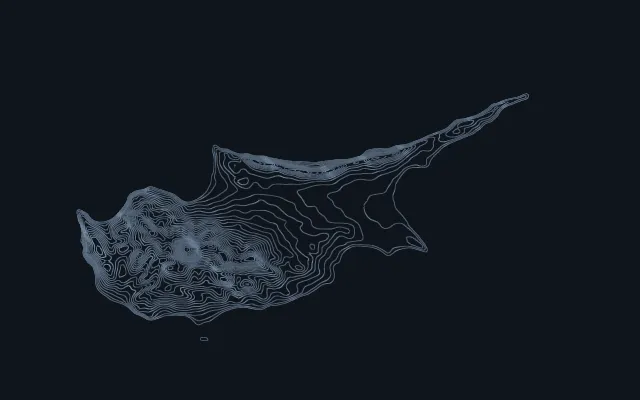
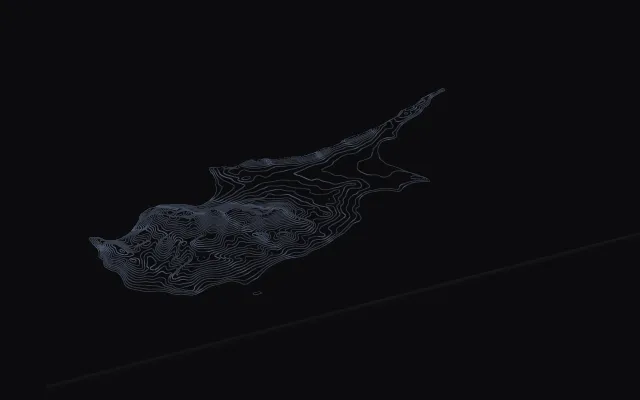
use the shared place camera for cyprus
- give cyprus landscape(341.8, 35, 0.1) like the other places and delete CYPRUS_DEFAULTS, so it keeps the viewer's style, colours and lines
- drop the theme clearing in beforePlace that only cyprus needed
- point the readme cyprus link at the shared place query and render place-cyprus.webp again
- update the unit tests, the playground check and the docs to match

Changed region(s): [[0.0938, 0.24, 0.8438, 0.81], [0.6562, 0.21, 0.6875, 0.27], [0.625, 0.27, 0.6562, 0.3]]

diff --git a/apps/playground/src/region/places.test.ts b/apps/playground/src/region/places.test.ts
@@ -1,10 +1,10 @@
 import { describe, expect, it } from 'vitest';
 import { limitProblem, spanOf } from './pipeline';
-import { mergeSettings, resolveSettings } from 'topographic';
-import { readSettings } from '../share-url';
-import { CYPRUS_DEFAULTS, MAP_TERRAIN_DEFAULTS, PLACE_GROUPS, PLACES, beforePlace, restoredKeys, sameBox, terrainDefaults } from './places';
+import { MAP_TERRAIN_DEFAULTS, PLACE_GROUPS, PLACES, restoredKeys, sameBox, terrainDefaults } from './places';
 
 const LANDSCAPES = PLACES.filter((place) => place.id !== 'istanbul' && place.id !== 'cyprus');
+/** Every place but Istanbul brings its own camera angle and elevation on the shared map terrain view. */
+const OWN_VIEW = PLACES.filter((place) => place.id !== 'istanbul');
 
 describe('example places', () => {
   it('offers Istanbul, Cyprus and eight landscapes, grouped by region in menu order', () => {
@@ -65,27 +65,20 @@ describe('example places', () => {
     });
   });
 
-  it('gives Cyprus the settings of its reference query, Istanbul the map terrain view and each landscape its own camera and elevation', () => {
-    const link = readSettings('?look=stone-grain&lc=37&lw=0&lo=0.92&ix=6&sd=1.3&sk=0.35&an=0.43&fd=0.22&m=dark&ink=a9c7e4&paper=10151c&mode=3d&ex=block&ev=0.06&az=3&ce=80&rd=1.18');
-    const { detail: _detail, quality: _quality, view2d: _view2d, ...rest } = link;
-    expect(CYPRUS_DEFAULTS).toEqual({ ...rest, camera: { azimuth: 3, elevation: 80, radius: 1.18 } });
-    expect(terrainDefaults('cyprus')).toBe(CYPRUS_DEFAULTS);
+  it('gives Istanbul the map terrain view, and Cyprus and each landscape the same view with their own camera angle and elevation', () => {
     expect(terrainDefaults('istanbul')).toBe(MAP_TERRAIN_DEFAULTS);
     expect(terrainDefaults(null)).toBe(MAP_TERRAIN_DEFAULTS);
-    for (const place of LANDSCAPES) {
+    for (const place of OWN_VIEW) {
       const d = terrainDefaults(place.id);
       expect({ ...d, camera: undefined, elevation: undefined }).toEqual({ ...MAP_TERRAIN_DEFAULTS, camera: undefined, elevation: undefined });
       expect(d.camera?.radius).toBe(MAP_TERRAIN_DEFAULTS.camera.radius);
       expect(Object.keys(d).sort()).toEqual(Object.keys(MAP_TERRAIN_DEFAULTS).sort());
     }
+    expect(terrainDefaults('cyprus')).toEqual({ ...MAP_TERRAIN_DEFAULTS, elevation: 0.1, camera: { azimuth: 341.8, elevation: 35, radius: 1.32 } });
   });
 
-  it('lets Clear restore the colours after Cyprus, and only the map view after Istanbul or a landscape', () => {
+  it('lets Clear restore only the map view after any place', () => {
     expect(restoredKeys('istanbul').sort()).toEqual(['camera', 'elevation', 'extent', 'lines']);
-    for (const place of LANDSCAPES) expect(restoredKeys(place.id).sort()).toEqual(['camera', 'elevation', 'extent', 'lines', 'mode']);
-    expect(restoredKeys('cyprus')).toEqual(expect.arrayContaining(['theme', 'style', 'motion', 'layout', 'lines', 'camera']));
-    const start = resolveSettings({ theme: { mode: 'light', ink: '#222222' } });
-    const applied = mergeSettings(start, CYPRUS_DEFAULTS);
-    expect(mergeSettings(applied, beforePlace(start, restoredKeys('cyprus')))).toEqual(start);
+    for (const place of OWN_VIEW) expect(restoredKeys(place.id).sort()).toEqual(['camera', 'elevation', 'extent', 'lines', 'mode']);
   });
 });

diff --git a/apps/playground/src/region/places.ts b/apps/playground/src/region/places.ts
@@ -13,25 +13,6 @@ export interface Place {
 }
 
 /**
- * Cyprus's own look, decoded with readSettings from the query
- * `?look=stone-grain&lc=37&lw=0&lo=0.92&ix=6&sd=1.3&sk=0.35&an=0.43&fd=0.22&m=dark&ink=a9c7e4&paper=10151c&mode=3d&ex=block&ev=0.06&az=3&ce=80&rd=1.18`.
- * The camera motion and the detail are left out: they belong to the viewer, not the place.
- */
-export const CYPRUS_DEFAULTS = {
-  style: 'granite',
-  seed: 127,
-  lines: { count: 37, width: 0, opacity: 0.92, indexEvery: 6 },
-  terrain: { peaks: 1, spread: 0.5, roughness: 0.5, sharpness: 0.5, terracing: 0, variant: 0.5 },
-  motion: { speed: 1.3, warp: 0.47, sparkle: 0.35 },
-  layout: { anchor: 0.43, fade: 0.22 },
-  theme: { mode: 'dark', paper: '#10151c', ink: '#a9c7e4' },
-  mode: '3d',
-  elevation: 0.06,
-  extent: 'block',
-  camera: { azimuth: 3, elevation: 80, radius: 1.18 },
-} as const satisfies SettingsInput;
-
-/**
  * What Apply sets on top of the current settings when it makes a terrain from the map. Colours,
  * theme, motion and the rest stay. Clear puts back the lines, camera, extent and elevation from
  * before the first place. Camera motion is left alone.
@@ -61,14 +42,15 @@ const landscape = (azimuth: number, cameraElevation: number, elevation: number):
 /**
  * Places offered as one-tap examples, grouped by region. Istanbul's box holds the whole metro area,
  * about 101 × 64 km. Cyprus is the whole island with some sea around it, about 261 × 166 km. Each
- * landscape box is about 1.5:1 around its main feature, with its own camera and elevation.
+ * landscape box is about 1.5:1 around its main feature. Cyprus and each landscape bring their own
+ * camera angle and elevation.
  */
 export const PLACES: readonly Place[] = [
   { id: 'istanbul', name: 'Istanbul', group: 'Europe & Middle East', note: 'The Bosphorus and the Princes\' Islands', bbox: { west: 28.45, south: 40.78, east: 29.65, north: 41.36 } },
   {
     id: 'cyprus', name: 'Cyprus', group: 'Europe & Middle East', note: 'The whole island, Troodos to the Karpas',
     bbox: { west: 32.07126, south: 34.41845, east: 34.93823, north: 35.92088 },
-    defaults: CYPRUS_DEFAULTS,
+    defaults: landscape(341.8, 35, 0.1),
   },
   {
     id: 'matterhorn', name: 'Matterhorn & Zermatt', group: 'Europe & Middle East', note: 'The pyramid above Zermatt and its glaciers',
@@ -136,7 +118,5 @@ export function restoredKeys(placeId: string | null): (keyof Settings)[] {
 export function beforePlace(s: Settings, keys: (keyof Settings)[] = restoredKeys(null)): BeforePlace {
   const out: Record<string, unknown> = {};
   for (const key of keys) out[key] = structuredClone(s[key]);
-  // A theme without its own ink or paper must clear the place's colours, so name them as undefined.
-  if (out.theme) out.theme = { ink: undefined, paper: undefined, ...(out.theme as object) };
   return out as BeforePlace;
 }

diff --git a/apps/playground/docs.ts b/apps/playground/docs.ts
@@ -28,7 +28,7 @@ ${TOOL_DEFS.map((t) => `### ${t.name}\n\n\`\`\`json\n${JSON.stringify(t.inputSch
 
 ## Place tools
 
-A region is \`?region=west,south,east,north\` in degrees, or JSON such as \`{"bbox":[28.45,40.78,29.65,41.36]}\`. Named examples: ${PLACES.map((p) => `\`place=${p.id}\` (${p.name})`).join(', ')}. Istanbul is the whole metro area, about 101 × 64 km, Cyprus the whole island, about 261 × 166 km, and each landscape a box of 30 to 80 km around its main feature. A region draws its real heights; the seed, the terrain params and \`motion.warp\` have no effect on it. In the page, the **Map** button picks a region, and its Apply also switches to 3D with \`lc=36&lw=0&lo=0.9&ix=4&ex=block&ev=0.12&az=341.8&ce=39.3&rd=1.32\`; each landscape sets its own \`ev\`, \`az\` and \`ce\`, and Cyprus its own look. \`set_region\` sets the same view. A minimap above the dock shows the applied area; in 3D it turns with the camera, and its compass turns the camera back to north up, which is azimuth 0.
+A region is \`?region=west,south,east,north\` in degrees, or JSON such as \`{"bbox":[28.45,40.78,29.65,41.36]}\`. Named examples: ${PLACES.map((p) => `\`place=${p.id}\` (${p.name})`).join(', ')}. Istanbul is the whole metro area, about 101 × 64 km, Cyprus the whole island, about 261 × 166 km, and each landscape a box of 30 to 80 km around its main feature. A region draws its real heights; the seed, the terrain params and \`motion.warp\` have no effect on it. In the page, the **Map** button picks a region, and its Apply also switches to 3D with \`lc=36&lw=0&lo=0.9&ix=4&ex=block&ev=0.12&az=341.8&ce=39.3&rd=1.32\`; Cyprus and each landscape set their own \`ev\`, \`az\` and \`ce\`. \`set_region\` sets the same view. A minimap above the dock shows the applied area; in 3D it turns with the camera, and its compass turns the camera back to north up, which is azimuth 0.
 
 ${REGION_TOOL_DEFS.map((t) => `- \`${t.name}\`${t.readOnly ? ' (read-only)' : ''}: ${t.description}`).join('\n')}
 

diff --git a/apps/playground/src/region/tools.ts b/apps/playground/src/region/tools.ts
@@ -85,7 +85,7 @@ export const REGION_TOOL_DEFS: ToolDef[] = [
     name: 'set_region',
     title: 'Set region',
     readOnly: false,
-    description: `Sets the map region that becomes the terrain. Give place (${PLACES.map((p) => p.id).join(', ')}) or a bbox in degrees. The same values are written to the page URL as ?place= for a named place, or ?region= for a box. Like Apply in the Map popover, it switches to 3D with the map terrain view: 36 lines, width 0, opacity 0.9, an index line every 4, a block at elevation 0.12, and the camera at azimuth 341.8, elevation 39.3, radius 1.32. Each landscape (every place but Istanbul and Cyprus) brings its own camera angle and elevation, and Cyprus its own look.`,
+    description: `Sets the map region that becomes the terrain. Give place (${PLACES.map((p) => p.id).join(', ')}) or a bbox in degrees. The same values are written to the page URL as ?place= for a named place, or ?region= for a box. Like Apply in the Map popover, it switches to 3D with the map terrain view: 36 lines, width 0, opacity 0.9, an index line every 4, a block at elevation 0.12, and the camera at azimuth 341.8, elevation 39.3, radius 1.32. Every place but Istanbul brings its own camera angle and elevation.`,
     inputSchema: SET_SCHEMA,
   },
   {

diff --git a/apps/playground/src/region/useRegion.ts b/apps/playground/src/region/useRegion.ts
@@ -170,7 +170,7 @@ export function useRegion(pg: Playground): RegionController {
       return;
     }
     if (!bboxRef.current && before.current === null) before.current = { settings: settingsRef.current, keys: new Set() };
-    // A place with its own defaults (Cyprus sets the colours too) adds those keys to what Clear restores.
+    // A place with its own defaults adds those keys to what Clear restores.
     for (const key of restoredKeys(id)) before.current?.keys.add(key);
     bboxRef.current = next;
     setPlaceId(id);

diff --git a/README.md b/README.md
@@ -31,7 +31,7 @@ The landscape can also come from a real place, using real height data. The [play
 
 | | | | | |
 |---|---|---|---|---|
-| ![Istanbul, with the Bosphorus between the two shores](assets/screenshots/place-istanbul.webp)<br><a href="https://topographic.yahyapak.dev/?s=gentle-summit&seed=67&lc=36&lw=0&lo=0.9&ix=4&fd=0.15&m=dark&mode=3d&ex=block&ev=0.12&az=341.8&ce=39.3&rd=1.32&place=istanbul">Istanbul</a> | ![Cyprus, the whole island from above](assets/screenshots/place-cyprus.webp)<br><a href="https://topographic.yahyapak.dev/?look=stone-grain&lc=37&lw=0&lo=0.92&ix=6&sd=1.3&sk=0.35&an=0.43&fd=0.22&m=dark&ink=a9c7e4&paper=10151c&mode=3d&ex=block&ev=0.06&az=3&ce=80&rd=1.18&place=cyprus">Cyprus</a> | ![The Matterhorn above Zermatt](assets/screenshots/place-matterhorn.webp)<br><a href="https://topographic.yahyapak.dev/?s=gentle-summit&seed=67&lc=36&lw=0&lo=0.9&ix=4&fd=0.15&m=dark&mode=3d&ex=block&ev=0.16&az=341.8&ce=35&rd=1.32&place=matterhorn">Matterhorn</a> | ![Geirangerfjord between steep walls](assets/screenshots/place-geirangerfjord.webp)<br><a href="https://topographic.yahyapak.dev/?s=gentle-summit&seed=67&lc=36&lw=0&lo=0.9&ix=4&fd=0.15&m=dark&mode=3d&ex=block&ev=0.16&az=341.8&ce=35&rd=1.32&place=geirangerfjord">Geirangerfjord</a> | ![The Grand Canyon from rim to rim](assets/screenshots/place-grand-canyon.webp)<br><a href="https://topographic.yahyapak.dev/?s=gentle-summit&seed=67&lc=36&lw=0&lo=0.9&ix=4&fd=0.15&m=dark&mode=3d&ex=block&ev=0.08&az=10&ce=40&rd=1.32&place=grand-canyon">Grand Canyon</a> |
+| ![Istanbul, with the Bosphorus between the two shores](assets/screenshots/place-istanbul.webp)<br><a href="https://topographic.yahyapak.dev/?s=gentle-summit&seed=67&lc=36&lw=0&lo=0.9&ix=4&fd=0.15&m=dark&mode=3d&ex=block&ev=0.12&az=341.8&ce=39.3&rd=1.32&place=istanbul">Istanbul</a> | ![Cyprus, the whole island from the Troodos to the Karpas](assets/screenshots/place-cyprus.webp)<br><a href="https://topographic.yahyapak.dev/?s=gentle-summit&seed=67&lc=36&lw=0&lo=0.9&ix=4&fd=0.15&m=dark&mode=3d&ex=block&ev=0.1&az=341.8&ce=35&rd=1.32&place=cyprus">Cyprus</a> | ![The Matterhorn above Zermatt](assets/screenshots/place-matterhorn.webp)<br><a href="https://topographic.yahyapak.dev/?s=gentle-summit&seed=67&lc=36&lw=0&lo=0.9&ix=4&fd=0.15&m=dark&mode=3d&ex=block&ev=0.16&az=341.8&ce=35&rd=1.32&place=matterhorn">Matterhorn</a> | ![Geirangerfjord between steep walls](assets/screenshots/place-geirangerfjord.webp)<br><a href="https://topographic.yahyapak.dev/?s=gentle-summit&seed=67&lc=36&lw=0&lo=0.9&ix=4&fd=0.15&m=dark&mode=3d&ex=block&ev=0.16&az=341.8&ce=35&rd=1.32&place=geirangerfjord">Geirangerfjord</a> | ![The Grand Canyon from rim to rim](assets/screenshots/place-grand-canyon.webp)<br><a href="https://topographic.yahyapak.dev/?s=gentle-summit&seed=67&lc=36&lw=0&lo=0.9&ix=4&fd=0.15&m=dark&mode=3d&ex=block&ev=0.08&az=10&ce=40&rd=1.32&place=grand-canyon">Grand Canyon</a> |
 | ![Yosemite Valley, Half Dome and El Capitan](assets/screenshots/place-yosemite.webp)<br><a href="https://topographic.yahyapak.dev/?s=gentle-summit&seed=67&lc=36&lw=0&lo=0.9&ix=4&fd=0.15&m=dark&mode=3d&ex=block&ev=0.16&az=341.8&ce=35&rd=1.32&place=yosemite">Yosemite</a> | ![Torres del Paine, granite towers over lakes](assets/screenshots/place-torres-del-paine.webp)<br><a href="https://topographic.yahyapak.dev/?s=gentle-summit&seed=67&lc=36&lw=0&lo=0.9&ix=4&fd=0.15&m=dark&mode=3d&ex=block&ev=0.16&az=341.8&ce=35&rd=1.32&place=torres-del-paine">Torres del Paine</a> | ![Mount Fuji, the cone and its lakes](assets/screenshots/place-fuji.webp)<br><a href="https://topographic.yahyapak.dev/?s=gentle-summit&seed=67&lc=36&lw=0&lo=0.9&ix=4&fd=0.15&m=dark&mode=3d&ex=block&ev=0.24&az=341.8&ce=30&rd=1.32&place=fuji">Mount Fuji</a> | ![Everest above the Khumbu valley](assets/screenshots/place-everest.webp)<br><a href="https://topographic.yahyapak.dev/?s=gentle-summit&seed=67&lc=36&lw=0&lo=0.9&ix=4&fd=0.15&m=dark&mode=3d&ex=block&ev=0.1&az=341.8&ce=40&rd=1.32&place=everest">Everest</a> | ![Kilimanjaro over the plains](assets/screenshots/place-kilimanjaro.webp)<br><a href="https://topographic.yahyapak.dev/?s=gentle-summit&seed=67&lc=36&lw=0&lo=0.9&ix=4&fd=0.15&m=dark&mode=3d&ex=block&ev=0.24&az=341.8&ce=30&rd=1.32&place=kilimanjaro">Kilimanjaro</a> |
 
 ## Install

diff --git a/docs/prototypes/region/README.md b/docs/prototypes/region/README.md
@@ -32,7 +32,7 @@ Istanbul's box holds the whole metro area with the Bosphorus, the Princes' Islan
 
 Map opens a popover with the map edge to edge and a frame on it. A badge at the top left names the framed place, or Area, with its size; it opens the place menu, grouped by region under small muted headers (Europe & Middle East, Americas, Asia, Africa). The menu items only move the map; they show no selected state. Pan and zoom to move the area under the frame, or drag the frame's corners and edges to change its shape. Dragging stops at the place limits, so the frame is always valid. A glass footer says what the terrain is now and holds Clear and Apply. Apply turns to ✓ Applied while the frame shows the applied place.
 
-Apply sets `MAP_TERRAIN_DEFAULTS` (in `region/places.ts`) on top of the current settings: 3D, a block, elevation 0.12, 36 lines at width 0 and opacity 0.9 with an index line every 4, and the camera at azimuth 341.8, angle 39.3, distance 1.32. It also saves the place as a dock item (`topographic.saved.v1` in localStorage: the box, the name and the settings, never the heightfield). A place in `PLACES` may carry its own `defaults`, which replace `MAP_TERRAIN_DEFAULTS`: Cyprus brings the granite style, dark paper `#10151c`, ink `#a9c7e4`, 37 lines, elevation 0.06 and a camera at azimuth 3, angle 80, distance 1.18. Each landscape uses `MAP_TERRAIN_DEFAULTS` with its own camera angle and elevation, picked from a small grid of renders. Clear returns to the generated terrain and to the lines, camera, extent and elevation from before the first Apply. After Cyprus, Clear also returns the style, colours, motion and layout it changed. A side can be up to 300 km. Relief is always dramatic and smoothing always medium. The map uses the quiet paper style. Add `basemap=liberty` to open the previous OpenFreeMap Liberty style instead.
+Apply sets `MAP_TERRAIN_DEFAULTS` (in `region/places.ts`) on top of the current settings: 3D, a block, elevation 0.12, 36 lines at width 0 and opacity 0.9 with an index line every 4, and the camera at azimuth 341.8, angle 39.3, distance 1.32. It also saves the place as a dock item (`topographic.saved.v1` in localStorage: the box, the name and the settings, never the heightfield). A place in `PLACES` may carry its own `defaults`, which replace `MAP_TERRAIN_DEFAULTS`. Cyprus and each landscape use `MAP_TERRAIN_DEFAULTS` with their own camera angle and elevation, picked from a small grid of renders. Clear returns to the generated terrain and to the lines, camera, extent and elevation from before the first Apply. A side can be up to 300 km. Relief is always dramatic and smoothing always medium. The map uses the quiet paper style. Add `basemap=liberty` to open the previous OpenFreeMap Liberty style instead.
 
 The script that took the screenshots below is gone. `scripts/readme-shots.mjs` takes the README shots of Istanbul and the picker.
 

diff --git a/docs/guide.md b/docs/guide.md
@@ -343,13 +343,12 @@ The playground (`apps/playground`) is the project's live demo page.
   - Pan and zoom the map, or drag the frame's corners and edges. You can also pick a place from the badge's menu. The places are grouped by region: Istanbul, Cyprus, Matterhorn & Zermatt and Geirangerfjord (Europe & Middle East); Grand Canyon, Yosemite Valley and Torres del Paine (Americas); Mount Fuji and Everest & the Khumbu (Asia); Kilimanjaro (Africa).
   - Press **Apply**. The real elevation inside the frame becomes the terrain.
   - Apply switches to 3D and uses the map terrain view: 36 lines at 0.5 px and 0.9 opacity, every fourth line bold, a block at elevation 0.12, and a closer camera.
-  - Cyprus has its own look instead: dark blue paper, light blue ink, 37 lines, elevation 0.06 and a camera from almost directly above.
   - Each place keeps that view but has its own camera angle and elevation. This puts its main feature in the middle, with the skyline above it.
   - Apply also saves the terrain in the dock, after the built-in map terrains. Its name is the place's name, or Area.
   - The dock starts with a built-in Istanbul map terrain for everyone. Like a look, it does not keep your changes. A click on it always brings back its own settings, camera and pan.
   - When a saved item is active, your changes to it are kept, including camera moves. A click on it brings back the view you left it in.
   - A built-in look does not keep your changes. A click on it always brings back its own camera. A plain style uses the playground camera.
-  - **Clear** goes back to the generated terrain. It also brings back the lines, camera, extent and elevation you had before. After Cyprus, it also brings back your style and colours.
+  - **Clear** goes back to the generated terrain. It also brings back the lines, camera, extent and elevation you had before.
   - When a map terrain is active, a small map above the right end of the dock shows the area you framed. In 3D, it turns with the camera, so it always matches the terrain on screen. Its compass points north. Click the compass to turn the camera back to north at the top (azimuth 0). Click the small map to open the map. In 2D, north is already at the top, so the small map does not turn.
   - The map loads only when you open it. It needs a network connection.
   - A link that opens a place hides the canvas until the heights arrive, so the default terrain does not flash. Contour rings draw in while it waits, on a desktop and on a phone. With reduced motion, the rings stay still. The page sets `data-loading` to `terrain`, and `get_region` returns `loading: true` with the message `Loading terrain`.
